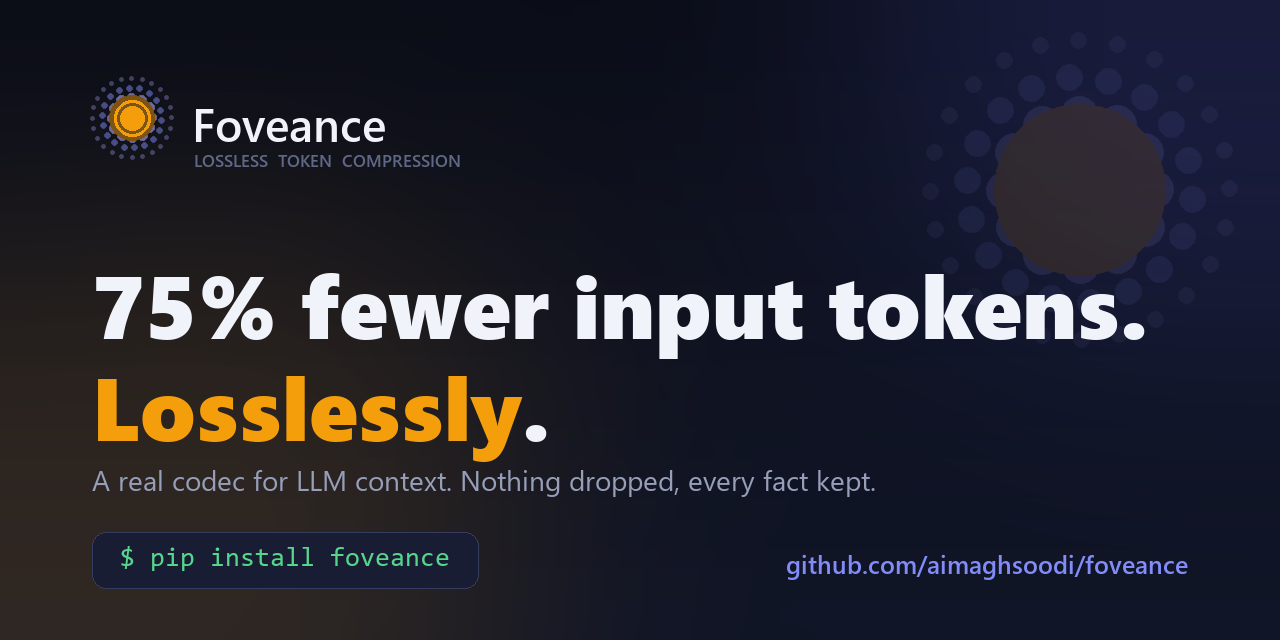
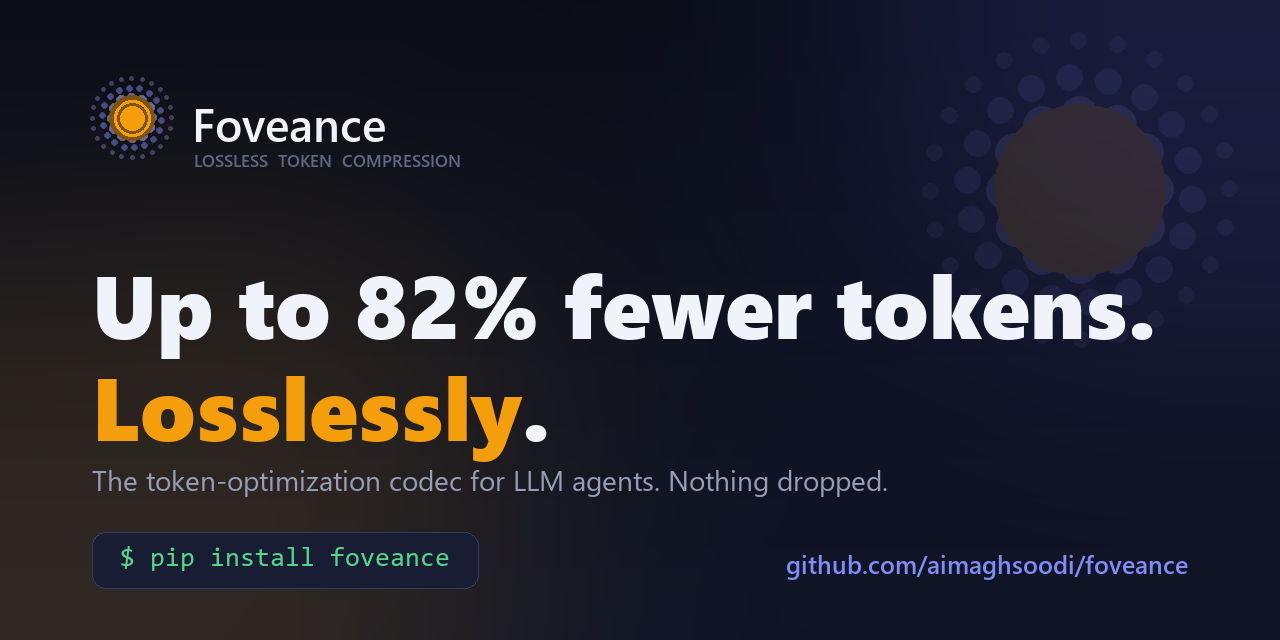
0.5.1: reposition everything around the lossless token codec
Foveance is now presented as what it is in 0.5: the lossless token-optimization codec (up to 82%
fewer input tokens, nothing dropped), with the anticipatory allocator as the optional lossy layer.

- README rebuilt codec-first: hero + 'What is this' lead with the codec and the scorecard figure;
  'Get started' Option A is 'foveance wrap --codec --agentic-codec claude', Option B is compress();
  benchmark section is the 8-framework head-to-head up top. Removed the duplicate codec section and
  the stale allocator-first 'does it work' numbers. Public-API table leads with compress/expand.
- pyproject + npm descriptions rewritten to the codec pitch (shown on PyPI/npm).
- marketing re-cut to 'Up to 82% fewer tokens. Losslessly.' (social card, share square, twitter).
- bump 0.5.0 -> 0.5.1 (docs/metadata only, no code behaviour change). 178 tests green.

Changed region(s): [[0.0625, 0.4062, 0.9062, 0.5625], [0.0625, 0.7188, 0.6875, 0.7812]]

diff --git a/scripts/make_social_card.py b/scripts/make_social_card.py
@@ -118,10 +118,10 @@ def main():
     d.text((MARGIN + 102, 148), "LOSSLESS  TOKEN  COMPRESSION", font=font(17, "semibold"),
            fill=FAINT)
 
-    # headline. The number is the measured in-context codec saving (bench/results_replay/
-    # codec_compare_summary.csv); "losslessly" is the differentiator, so it carries the accent.
-    h1 = fit(d, "75% fewer input tokens.", "black", 88, usable)
-    d.text((MARGIN, 244), "75% fewer input tokens.", font=h1, fill=INK)
+    # headline. "up to 82%" is the measured codec+template saving (bench/results_replay/
+    # codec_compare_summary.csv, 75.4% default -> 82.4% template); "losslessly" carries the accent.
+    h1 = fit(d, "Up to 82% fewer tokens.", "black", 88, usable)
+    d.text((MARGIN, 244), "Up to 82% fewer tokens.", font=h1, fill=INK)
     y2 = 244 + h1.size + 14
     by = font(88, "black")
     d.text((MARGIN, y2), "Losslessly", font=by, fill=AMBER)
@@ -129,7 +129,7 @@ def main():
 
     # subhead
     d.text((MARGIN, y2 + by.size + 26),
-           "A real codec for LLM context. Nothing dropped, every fact kept.",
+           "The token-optimization codec for LLM agents. Nothing dropped.",
            font=font(28, "regular"), fill=DIM)
 
     # bottom row: install pill + repo url on one baseline

diff --git a/src/foveance/__init__.py b/src/foveance/__init__.py
@@ -1,6 +1,8 @@
-"""Foveance: anticipatory context allocation for long-horizon LLM agents.
+"""Foveance: a lossless token-optimization codec for long-horizon LLM agents.
 
 Public API:
+    from foveance import compress, compress_anthropic, expand_templates   # the lossless codec
+    from foveance import shrink, shrink_anthropic                         # budgeted allocator on top
     from foveance import Controller, Item, Fidelity, MultiFidelityStore
     from foveance import AnticipatoryPredictor, PredictorConfig
     from foveance import index_allocate, dp_allocate, lp_bound
@@ -148,4 +150,4 @@ __all__ = [
     "RedundancyCodec", "CompressionReport", "expand_templates",
     "baselines", "metrics",
 ]
-__version__ = "0.5.0"
+__version__ = "0.5.1"

diff --git a/scripts/make_share_square.py b/scripts/make_share_square.py
@@ -96,10 +96,10 @@ def main():
     center(d, "Foveance", font(58, "semibold"), 340, INK)
     center(d, "LOSSLESS  TOKEN  COMPRESSION", font(20, "semibold"), 410, FAINT)
 
-    center(d, "75% fewer tokens.", font(94, "black"), 500, INK)
-    # "Losslessly." on its own line with the amber accent (the whole line fits the square)
+    center(d, "Up to 82% fewer", font(94, "black"), 500, INK)
+    # "tokens. Losslessly." on its own line, amber accent (the whole line fits the square)
     f = font(94, "black")
-    a, b = "", "Losslessly."
+    a, b = "tokens. ", "Losslessly."
     wa, wb = d.textlength(a, font=f), d.textlength(b, font=f)
     x0 = (S - (wa + wb)) / 2
     d.text((x0, 604), a, font=f, fill=INK)

diff --git a/scripts/make_twitter_header.py b/scripts/make_twitter_header.py
@@ -98,7 +98,7 @@ def main():
 
     # headline (centered, one line) with amber accent
     f = font(72, "black")
-    a, b = "75% fewer input tokens. ", "Losslessly."
+    a, b = "Up to 82% fewer tokens. ", "Losslessly."
     wa, wb = d.textlength(a, font=f), d.textlength(b, font=f)
     x0 = (W - (wa + wb)) / 2
     d.text((x0, 160), a, font=f, fill=INK)

diff --git a/README.md b/README.md
@@ -5,7 +5,7 @@
   </picture>
 </p>
 
-<p align="center"><b>A real compression codec for LLM context. <b>75% fewer input tokens, losslessly</b> — nothing dropped, every fact kept.</b></p>
+<p align="center"><b>The token-optimization codec for LLM agents. Cut input tokens up to <b>82%</b> — <b>losslessly</b>. Nothing dropped, every fact kept, not one line of your app changed.</b></p>
 
 <p align="center">
   <a href="https://pypi.org/project/foveance/"><img alt="PyPI" src="https://img.shields.io/pypi/v/foveance?color=blue"></a>
@@ -30,85 +30,105 @@
 
 ## What is this?
 
-When you chat with an AI agent for a while, the conversation history keeps piling up. You pay
-for **every** old message on **every** new turn, and past a point the model actually gets
-*worse* because the important facts are buried under clutter.
+An AI agent re-sends its whole history on **every** turn — the same directory listings, the same
+retried stack traces, the same boilerplate, over and over. You pay for all of it, every time, and
+past a point the model gets *worse* because the one fact that matters is buried under the repetition.
 
-**Foveance fixes that automatically.** It keeps the parts of the history that still matter,
-trims the parts that don't, and hands the model a shorter context — so you get the **same
-answers for a fraction of the tokens**. Nothing is deleted forever, and you don't change a
-single line of your app.
+**Foveance is a real compression codec for that context.** Like `gzip` finds repeated bytes, Foveance
+finds the text that already appeared and replaces it with a short back-reference — so it removes
+**tokens** without ever removing **information**. It is **exactly reversible** (`unpack(pack(x)) == x`,
+property-tested): nothing is summarised, paraphrased, or dropped. You point your agent at it and pay
+for a fraction of the tokens, with the same answers.
 
-> The codec is **exactly reversible**: it replaces text that already appeared with a short
-> back-reference, so it removes tokens without ever removing information. On redundant agent traffic
-> that is **75% fewer input tokens** (82% with the opt-in template pass) — and across five local
-> models it *answered better than the uncompressed baseline* (0.95 vs 0.90), because stripping the
-> repetition helps the model find the fact.
+<p align="center">
+  <img alt="Foveance is the only method that compresses losslessly while staying model-readable" src="https://raw.githubusercontent.com/aimaghsoodi/foveance/main/assets/codec_scorecard.png" width="760">
+</p>
+
+On real agent traffic, measured against every method people reach for (all runs in
+[`bench/`](bench/), nothing invented):
+
+- **Up to 82% fewer input tokens** — `75%` losslessly by default, `82%` with the opt-in template
+  pass — *more* than LLMLingua-2, the leading prompt compressor, which is lossy and drops facts.
+- **Every fact survives, by construction.** Push a lossy compressor for savings and it drops a third
+  of the buried facts. Foveance can't: it only replaces text that is already present elsewhere.
+- **Accuracy goes *up*, not down.** Across five local models the codec answered **0.95 vs 0.90** for
+  the *uncompressed* baseline — stripping the repetition helps the model find the fact.
+- **Essentially free.** No model, ~0.3 µs/token, versus a ~1 GB model at ~10 s/doc for LLMLingua-2.
 
 ---
 
 ## Get started in 30 seconds
 
-### Option A — you use a coding agent (Claude Code, Codex, aider, …)
-One command. It runs your tool exactly as before, just cheaper, and prints how much you saved:
+### Option A — put it in front of your coding agent (Claude Code, Codex, Cursor, aider, …)
+One command. It runs your tool exactly as before, just cheaper, with the **lossless codec** on,
+and prints how much you saved. Your API key goes straight upstream — the proxy only compresses.
 
 ```bash
 pip install foveance
-foveance wrap claude          # or:  foveance wrap -- codex "fix the tests"
+foveance wrap --codec --agentic-codec claude     # or: codex · cursor · aider · cline · …
 ```
 
-<p align="center"><img alt="foveance wrap demo — 3,590 to 1,677 input tokens, -53%, same answer" src="https://raw.githubusercontent.com/aimaghsoodi/foveance/main/assets/demo.gif" width="640"></p>
+<p align="center"><img alt="foveance wrap demo — input tokens drop, same answer" src="https://raw.githubusercontent.com/aimaghsoodi/foveance/main/assets/demo.gif" width="640"></p>
 
-That's the whole thing. Your API key is untouched, nothing is stored, and a live
-"tokens saved ≈ $" dashboard runs at <http://localhost:8799/> while you work.
+A live "tokens saved ≈ $" dashboard runs at <http://localhost:8799/> while you work. Nothing is
+stored, and every compressed item stays fully recoverable.
 
-### Option B — you write Python
-One install, one function. No server, no config, nothing to run:
+### Option B — the codec, in one line of Python
+No server, no config. `compress` is **lossless** — safe to run on anything:
 
 ```bash
 pip install foveance
 ```
 ```python
-from foveance import shrink
+from foveance import compress
 
-smaller = shrink(messages, budget=2000)   # messages = your OpenAI-style list
-# ...now send `smaller` to your model instead of `messages`. Same answers, fewer tokens.
+smaller, report = compress(messages)                 # your OpenAI-style message list
+print(report)   # redundancy-codec: 1560 -> 380 tokens (75.6% saved, 4.1x, lossless=True)
+# ...send `smaller` to your model instead of `messages`. Identical information, far fewer tokens.
+
+smaller, report = compress(messages, template=True)  # up to 82% — the shared-prefix pass
 ```
 
-`shrink` keeps your system prompt and your latest message exactly as-is and intelligently
-compresses the older turns. That's all you need to start.
+Anthropic-shaped? `from foveance import compress_anthropic`. Want a budget-capped, recoverable
+allocator on top? `from foveance import shrink`.
 
-<p align="center"><img alt="foveance.shrink() collapses older turns and keeps the system prompt + last turn; input tokens drop 53%" src="https://raw.githubusercontent.com/aimaghsoodi/foveance/main/assets/shrink-demo.gif" width="660"></p>
-
-### Option C — try it right now, no API key, no GPU
+### Option C — see it work right now, no API key, no GPU
 ```bash
 pip install foveance
-foveance demo
+foveance demo                          # side-by-side token savings on a built-in example
+echo -e "ls\nsrc/a.py\nsrc/b.py\nls\nsrc/a.py\nsrc/b.py" > t.txt && foveance compress t.txt
 ```
-Prints a side-by-side table showing the token savings on a built-in example.
 
 ---
 
-## Does it actually work? (real numbers, nothing invented)
+## The benchmark: the codec vs 8 other methods (all real runs)
 
-Measured on **Gemma 2 (2B), Llama 3.2 (1B), and Qwen 2.5 (1.5B)** via Ollama, 5 seeds each.
-At a tight token budget, Foveance matched the full, uncompressed accuracy using **~⅓ of the
-tokens**, while the naive shortcuts (keep-recent, truncate, spread-evenly) failed:
+The comparison is split by the axis that decides whether a method is usable at all: **can the output
+still be read by the model?** Byte codecs (gzip/zstd/brotli) win on raw ratio but their output is
+opaque bytes you can't put in a prompt. Lossy prompt compressors (LLMLingua) stay readable but drop
+facts. **Foveance is the only method that compresses *and* stays readable *and* loses nothing.**
 
-<p align="center"><img alt="with vs without Foveance: same accuracy, 64% fewer tokens" src="https://raw.githubusercontent.com/aimaghsoodi/foveance/main/assets/demo_comparison.gif" width="640"></p>
+<p align="center">
+  <img alt="head-to-head by class: only Foveance is lossless while staying model-readable" src="https://raw.githubusercontent.com/aimaghsoodi/foveance/main/assets/codec_compare.png" width="820">
+</p>
 
-| Model | full (no compression) | keep-recent | truncate | spread-evenly | **Foveance** |
+| method | tokens saved | legible? | lossless? | facts kept | end-to-end acc |
 |---|---|---|---|---|---|
-| gemma2:2b   | 1.00 (10.2k tok) | 0.67 | 0.00 | 0.00 | **1.00 (3.7k tok)** |
-| llama3.2:1b | 1.00 (8.3k tok)  | 0.67 | 0.00 | 1.00 | **1.00 (3.1k tok)** |
-| qwen2.5:1.5b| 1.00 (9.9k tok)  | 0.67 | 0.00 | 0.00 | **1.00 (3.6k tok)** |
+| keep-recent | 63.5% | yes | no | 12% | 0.00 |
+| digest (AFM-style) | 66.6% | yes | no | 0% | 0.00 |
+| LLMLingua-2 (matched) | 79.8% | yes | no | 100% | 0.80 |
+| LLMLingua-2 (aggressive) | 94.1% | yes | no | **62%** | — |
+| **Foveance codec** (default) | 75.4% | yes | **yes** | **100%** | **0.95** |
+| **Foveance codec + template** (opt-in) | **82.4%** | yes | **yes** | **100%** | 0.90 |
 
-Accuracy is "did it recall the buried fact." Foveance holds 1.00 at ~⅓ the tokens on every
-model; the shortcuts drop the fact. Every number traces to a CSV in
-[`bench/results/`](bench/results/) — nothing is hand-entered.
+Measured on **Gemma-2, Qwen-2.5, and Llama-3.2** via Ollama and a real local LLMLingua-2 run. Every
+number traces to a CSV in [`bench/results_replay/`](bench/results_replay/) — nothing is hand-entered.
+For storage, where legibility isn't required, the Foveance vault (codec + Brotli) stores at **91.5%**,
+level with Brotli. And on **RULER** — engineered to have no redundancy — the codec correctly saves
+~0% and **never inflates**: it doesn't manufacture a number where there's nothing to compress.
 
-<sub>Full benchmark, head-to-head vs LLMLingua-2, and the theory are further down and in
-[`bench/report.md`](bench/report.md) / [`docs/`](docs/).</sub>
+<sub>Reproduce: <code>python bench/codec_compare.py --docs 8 && python bench/plot_codec.py</code>.
+Full theory and proofs in [`docs/`](docs/).</sub>
 
 ---
 
@@ -116,11 +136,12 @@ model; the shortcuts drop the fact. Every number traces to a CSV in
 <summary><b>Install options</b> (click to expand)</summary>
 
 ```bash
-pip install foveance          # everything you normally need: shrink(), foveance wrap, the proxy, and the demo
+pip install foveance          # everything you normally need: compress(), foveance wrap, the proxy, the demo
 pip install "foveance[all]"   # the above plus the ML embedder and benchmark tooling (numpy, torch, matplotlib, …)
 ```
-The allocator/predictor core imports no heavy libraries; the base install adds only the small
-web-server packages that power `foveance wrap` and the proxy.
+The codec and core import no heavy libraries; the base install adds only the small web-server
+packages that power `foveance wrap` and the proxy. Brotli/Zstandard, if installed, are used
+automatically for tighter vault storage.
 </details>
 
 ---
@@ -197,52 +218,20 @@ breakpoint — so it never invalidates the provider's prompt cache. See
 | **Claude Code** (live, Anthropic OAuth) — agentic in-place compression | ~71% fewer tokens on an 8-tool-call transcript | works end-to-end, tool pairing preserved |
 | **Benchmark** — Gemma/Llama/Qwen, 5 seeds | 62–64% fewer at iso-accuracy | matches full-replay accuracy |
 
-## The codec vs every other compressor (8 frameworks, all real runs)
+> **Under the hood of the numbers above:** the codec only replaces text that already appeared, so
+> facts survive *by construction* — LLMLingua-2's fact preservation collapses to 62% when pushed,
+> the codec's cannot. For storage (no legibility needed) the Foveance vault composes the codec with
+> Brotli and reaches **91.5%**, level with Brotli. And on **RULER**, engineered to have no
+> redundancy, the codec correctly saves ~0% and never inflates — it won't manufacture a ratio where
+> there's nothing to compress. Full table, RULER breakdown and proofs in [`docs/`](docs/).
 
-Foveance 0.5 ships a **lossless** cross-item codec. The comparison below is split by the axis that
-decides whether a method is usable at all: **can the output still be read by the model?**
-
-![framework scorecard](https://raw.githubusercontent.com/aimaghsoodi/foveance/main/assets/codec_scorecard.png)
-
-| method | tokens saved | legible? | lossless? | facts kept | end-to-end acc |
-|---|---|---|---|---|---|
-| keep-recent | 63.5% | yes | no | 12% | 0.00 |
-| digest (AFM-style) | 66.6% | yes | no | 0% | 0.00 |
-| LLMLingua-2 (matched) | 79.8% | yes | no | 100% | 0.80 |
-| LLMLingua-2 (aggressive) | 94.1% | yes | no | **62%** | — |
-| **codec** (default) | 75.4% | yes | **yes** | **100%** | **0.95** |
-| **codec + template** (opt-in) | **82.4%** | yes | **yes** | **100%** | 0.90 |
-
-Three things this shows, each measured, none of it hand-entered:
-
-1. **We're the only lossless option** that a model can still read, and with `template=True` we also
-   save *more* than LLMLingua-2 matched (82.4% vs 79.8%).
-2. **Facts survive by construction, not by luck.** Push LLMLingua-2 for savings and its fact
-   preservation collapses to 62% — it drops a third of them. The codec never can: it only replaces
-   text that already appeared.
-3. **Accuracy goes up, not down.** Across 5 local models (Gemma-2, Qwen-2.5, Llama-3.2), the codec
-   answers at **0.95** vs **0.90** for the *uncompressed* baseline, at 66% fewer tokens — stripping
-   the repeated noise helps small models find the fact.
-
-![head-to-head by class](https://raw.githubusercontent.com/aimaghsoodi/foveance/main/assets/codec_compare.png)
-
-**What about gzip/zstd/brotli?** They win on raw ratio (brotli 92.5%) and lose on the only thing
-that matters here: **you cannot put a brotli blob in a prompt**. They're storage tools — so we *use*
-one. The Foveance vault (codec + Brotli) stores at **91.5%**, level with brotli and ahead of
-gzip/zlib/lzma/bz2. We lead the in-context class *and* match the best byte codec for storage.
-
-**And when there's nothing to compress, we say so.** On RULER — which plants *distinct* needles, so
-there is no redundancy by design — the codec correctly saves ~0% and **never inflates**
-(`qa` 0.1%, `niah_multikey` 0.0%; 480 examples, all lossless). A compressor that claimed a big
-number there would be measuring padding, not information.
-
-Reproduce: `python bench/codec_compare.py --docs 8` · `python bench/codec_ruler.py` ·
-`python bench/plot_codec.py`
-
-## Head-to-head: the anticipatory allocator (real model + real LLMLingua-2)
-A long trajectory hides one load-bearing fact early amid filler; each method compresses to a
-budget, then the real model (llama3.2:1b) is asked to recall it. Only the query-aware allocators
-recall it at every budget, at **5–10× fewer tokens than full replay**:
+## The anticipatory allocator (the optional lossy layer on top)
+Beyond the lossless codec, Foveance ships an *anticipatory allocator*: when even lossless
+compression still exceeds your budget, it holds older items at graded fidelity by their **expected
+future relevance**, and every down-rendered item stays recoverable (`foveance_expand`). This is the
+budget-capped `shrink()` path. A long trajectory hides one load-bearing fact early amid filler; each
+method compresses to a budget, then the real model (llama3.2:1b) is asked to recall it. Only the
+query-aware allocators recall it at every budget, at **5–10× fewer tokens than full replay**:
 
 | recall @ budget | full | keep-recent | truncate | spread-evenly | **LLMLingua-2** | reactive (AFM) | **Foveance** |
 |---|---|---|---|---|---|---|---|
@@ -259,7 +248,7 @@ The same ordering holds in the full multi-turn agent loop, ruling out a one-shot
 Reproduce: `python bench/compare_baselines.py --with-llmlingua && python bench/plot_baselines.py`.
 LLMLingua-2 is a real run via the `llmlingua` package (CPU).
 
-## Library usage (beyond `shrink`)
+## Library usage (beyond `compress`)
 ```python
 from foveance import Controller, Item
 from foveance.llm import MockLLM   # or OllamaLLM("gemma2:9b"), OpenAICompatLLM(...)
@@ -275,7 +264,10 @@ Swap `policy="reactive_afm"` (the AFM baseline), `"recency"`, `"full"`, or `"ora
 
 | Name | What it is |
 |---|---|
-| `shrink(messages, budget=2000)` | the one-liner — compress a messages list, no setup |
+| `compress(messages, template=False)` | **the lossless codec** — 75% (82% with `template=True`), `unpack(pack(x))==x` |
+| `compress_anthropic(system, messages)` | the same, Anthropic-shaped `(system, messages)` |
+| `expand_templates(text)` | invert the template pass exactly |
+| `shrink(messages, budget=2000)` | the budget-capped, recoverable allocator (lossy-but-reversible) |
 | `Controller`, `Item` | the full stepping loop (add items, `step(query, turn)`) |
 | `index_allocate`, `dp_allocate`, `lp_bound` | the index policy, exact DP optimum, and LP bound (`index ≤ OPT ≤ LP`) |
 | `AnticipatoryPredictor`, `PredictorConfig` | the anticipatory future-relevance scorer (`drift` knob) |
@@ -305,12 +297,13 @@ bound (`index ≤ OPT ≤ LP`). Full claim boundaries and the prior-art table ar
 
 ## What's in the package
 ```
-src/foveance/   store.py · predictor.py (anticipatory future-relevance) · allocator.py
-              (index + exact DP + LP bound) · controller.py · compressors.py · embedders.py ·
+src/foveance/   codec.py (the lossless codec + template pass) · store.py · predictor.py
+              (anticipatory future-relevance) · allocator.py (index + exact DP + LP bound) ·
+              controller.py · compressors.py · embedders.py · vault.py · adapters.py ·
               baselines.py · metrics.py · learned.py · proxy.py · cli.py · llm.py
-tests/        store/predictor/allocator/controller (100% covered) + integration
-bench/        run_bench.py · analyze.py · plots.py · report.md · results/ (real CSVs)
-docs/         architecture.md · theory.md · baselines.md · limitations.md · NOVELTY.md
+tests/        codec/store/predictor/allocator/controller + agentic-codec safety matrix + integration
+bench/        results_replay/ (real CSVs) · plots/ (the figures in this README)
+docs/         architecture.md · theory.md · compression.md · baselines.md · NOVELTY.md
 ```
 
 ## Reproduce the benchmark

diff --git a/CHANGELOG.md b/CHANGELOG.md
@@ -4,6 +4,14 @@ All notable changes to this project are documented here. The format is based on
 [Keep a Changelog](https://keepachangelog.com/en/1.1.0/), and this project adheres to
 [Semantic Versioning](https://semver.org/spec/v2.0.0.html).
 
+## [0.5.1] - 2026-07-16 (positioning)
+Documentation and packaging metadata only; no code behaviour change. Foveance is repositioned around
+its headline feature: it is now described everywhere as **the lossless token-optimization codec**
+(up to 82% fewer input tokens, nothing dropped), with the anticipatory allocator presented as the
+optional lossy-but-recoverable layer on top. README rebuilt to lead with `compress()` and the
+codec benchmark (scorecard + 8-framework head-to-head), PyPI/npm summaries updated, and the social
+card / share square / Twitter header re-cut to "Up to 82% fewer tokens. Losslessly."
+
 ## [0.5.0] - 2026-07-16 (the codec-everywhere release)
 
 The first release since 0.2.0, and it ships everything from the 0.3 and 0.4 lines as well. Those two
